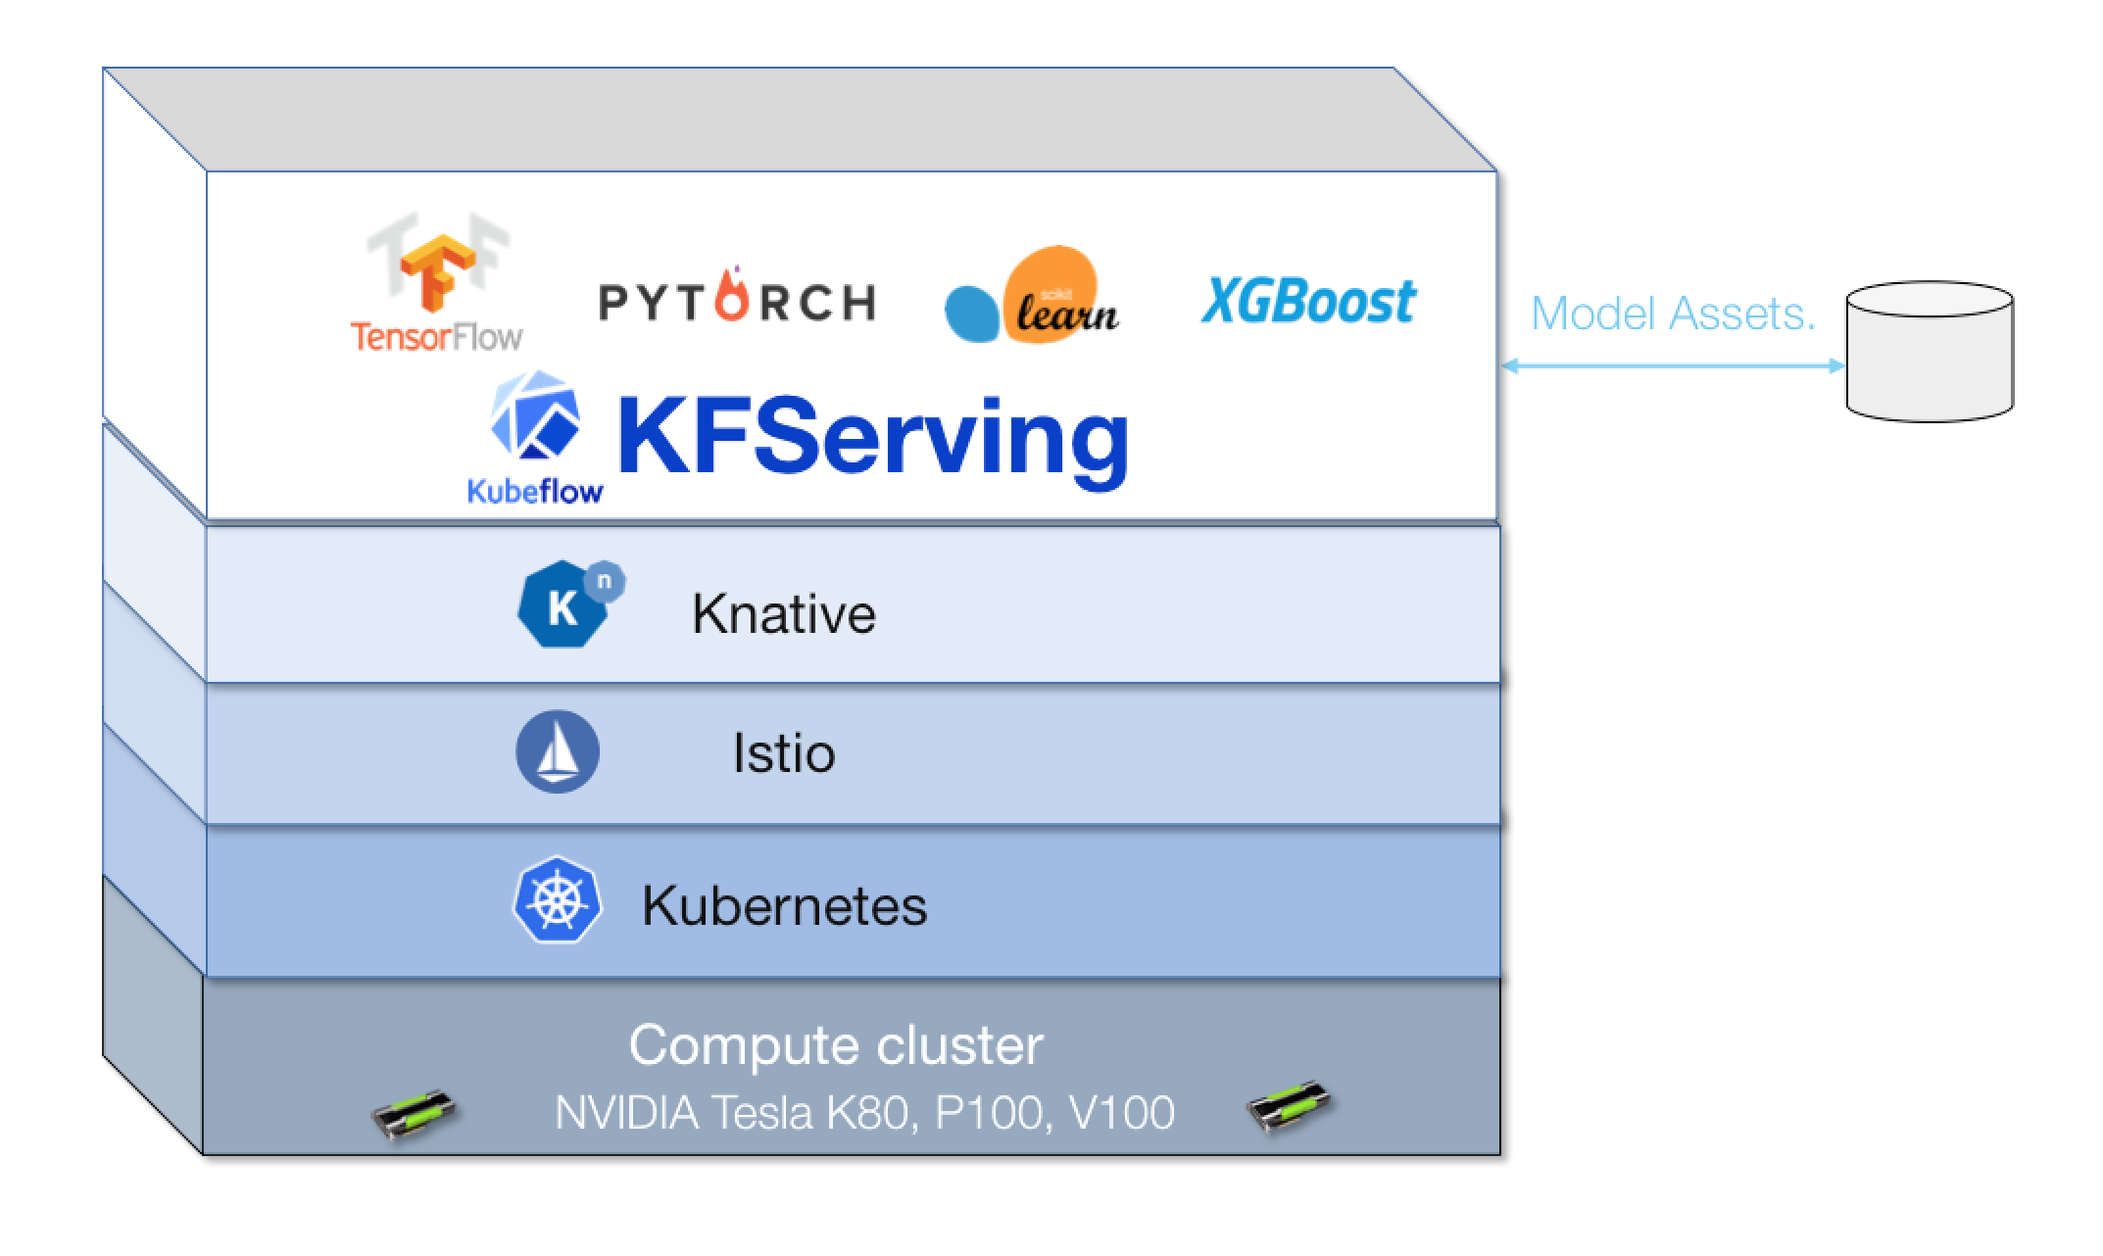
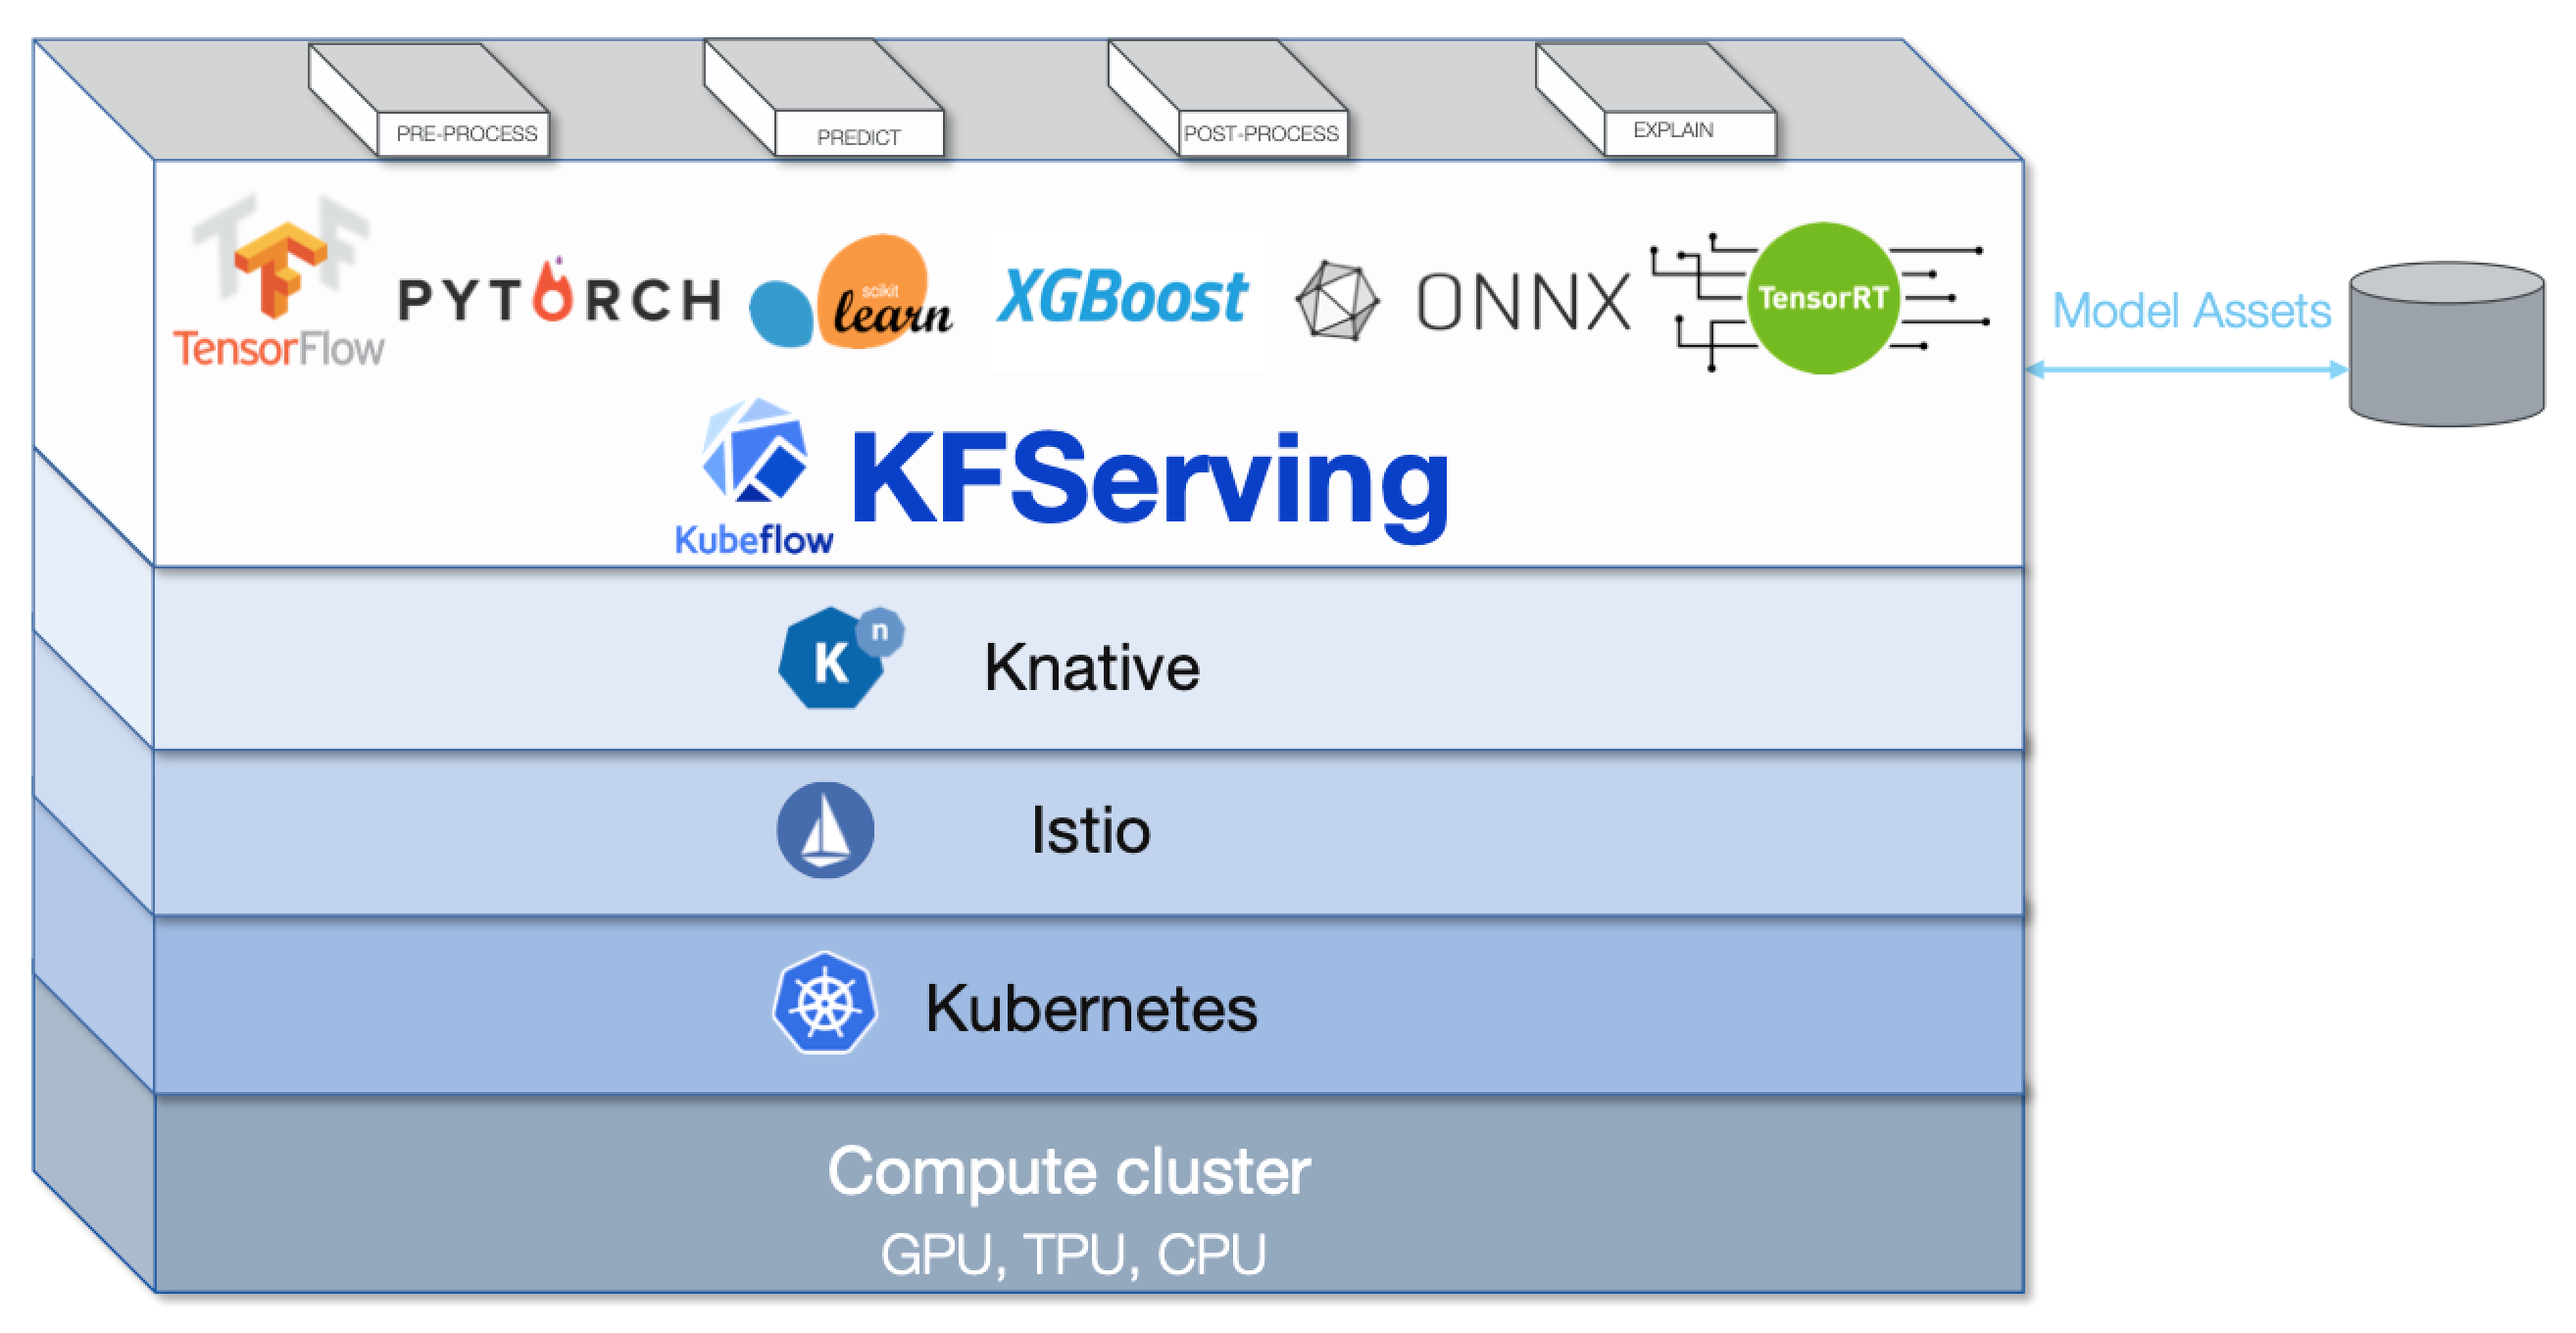
Improved docs for v0.2 release. (#424)
* pausing here

* Uses animesh's kfserving image

* Cleans up lanuage

diff --git a/docs/README.md b/docs/README.md
@@ -1,25 +1,28 @@
-
-# Design Docs
-KFServing architecture consists of two main specifications, around control plane and data plane. Control plane is responsible for deploying and managing the lifecycle of models, while data plane is responsible for defining the contracts to interact with models once deployed.
-
- * [KFserving control plane specification](control-plane.md)
-   * Defines the specification of the `kfserving` resource.
-
 # Architecture Overview
-The InferenceService Data Plane architecture consists of a static graph of components which implement a limited set of features. Advanced features such as Ensembling, A/B testing, and Multi-Arm-Bandits should be built at a layer above InferenceServices. The diagram reflects the overall architecture for a viable offering, but at this point in time may not accurately reflect the current set of features available in the graph, but the overall mechanism holds:
-
-- The User defines the components they wish to use in a InferenceService.
-  - The only required component is a Predictor.
-  - Additional components may be specified to attach addtional behavior. 
-  - Each component is specified at the ModelSpec layer, allowing for canarying.
-- The InferenceService will support one of several Data Plane interfaces.
-  - For example: tensorflow/HTTP, tensorflow/GRPC, seldon/HTTP, seldon/GRPC
-  - Data Plane interfaces may be specified with annotations and defaults to tensorflow/HTTP
-  - Not all components will be compatible with every data plane interface.
-- The Orchestrator wires up the components.
-  - If the Predictor is the only component, the orchestrator will not be deployed.
-  - The Orchestrator will orchestrate requests against the existing components.
-- The Orchestrator will return a final response once the results have been aggregated.
-  - Some components (e.g. payload logging) will execute asyncronously.
+The InferenceService Data Plane architecture consists of a static graph of components which coordinate requests for a single model. Advanced features such as Ensembling, A/B testing, and Multi-Arm-Bandits should compose InferenceServices together.
 
 ![Data Plane](./diagrams/dataplane.jpg)
+
+# Concepts
+**Endpoint**: InferenceServers are divided into two endpoints: "default" and "canary". The endpoints allow users to safely make changes using the Pinned and Canary rollout strategies. Canarying is completely optional enabling users to simply deploy with a BlueGreen deployment stategy on the "default" endpoint.
+
+**Component**: Each endpoint is composed of multiple components: "predictor", "explainer", and "transformer". The only required component is the predictor, which is the core of the system. As KFServing evolves, we plan to increase the number of supported components to enable use cases like Outlier Detection.
+
+**Predictor**: The predictor is the workhorse of the InferenceService. It is simply a model amd a model server that makes it available at a network endpoint.
+
+**Explainer**: The explainer enables an optional alternate data plane that provides model explanations in addition to predictions. Users may define their own explanation container, which KFServing configures with relevant environment variables like prediction endpoint. For common use cases, KFServing provides out-of-the-box explainers like Alibi.
+
+**Transformer**: The transformer enables users to define a pre and post processing step before the prediction and explanation workflows. Like the explainer, it is configured with relevant environment variables to. For common use cases, KFServing provides out-of-the-box transformers like Feast.
+
+# Data Plane (V1)
+KFServing has a standardized prediction workflow across all model frameworks. 
+
+Note: We are actively developing a V2 data plane protocol to improve performace (i.e. GRPC).
+
+## Predict
+All InferenceServices speak the Tensorflow V1 HTTP API: https://www.tensorflow.org/tfx/serving/api_rest#predict_api. 
+
+Note: Only Tensorflow models support the fields "signature_name" and "inputs".
+
+## Explain
+All InferenceServices that are deployed with an Explainer support a standardized explanation API. This interface is identical to the Tensorflow V1 HTTP API with the addition of an ":explain" verb.

diff --git a/README.md b/README.md
@@ -1,9 +1,9 @@
 # KFServing
 KFServing provides a Kubernetes [Custom Resource Definition](https://kubernetes.io/docs/concepts/extend-kubernetes/api-extension/custom-resources/) for serving machine learning (ML) models on arbitrary frameworks. It aims to solve production model serving use cases by providing performant, high abstraction interfaces for common ML frameworks like Tensorflow, XGBoost, ScikitLearn, PyTorch, and ONNX.
 
-KFServing encapsulates the complexity of autoscaling, networking, health checking, and server configuration to bring cutting edge serving features like GPU Autoscaling, Scale to Zero, and Canary Rollouts to your ML deployments. It enables a simple, pluggable, and complete story for production ML Inference Server by providing prediction, pre-processing, post-processing and explainability out of the box.
+It encapsulates the complexity of autoscaling, networking, health checking, and server configuration to bring cutting edge serving features like GPU Autoscaling, Scale to Zero, and Canary Rollouts to your ML deployments. It enables a simple, pluggable, and complete story for Production ML Serving including prediction, pre-processing, post-processing and explainability.
 
-![KFServing](https://www.kubeflow.org/docs/components/serving/kfserving.png)
+![KFServing](/docs/diagrams/kfserving.png)
 
 ### Learn More
 To learn more about KFServing, how to deploy it as part of Kubeflow, how to use various supported features, and how to participate in the KFServing community, please follow the [KFServing docs on the Kubeflow Website](https://www.kubeflow.org/docs/components/serving/kfserving/).
